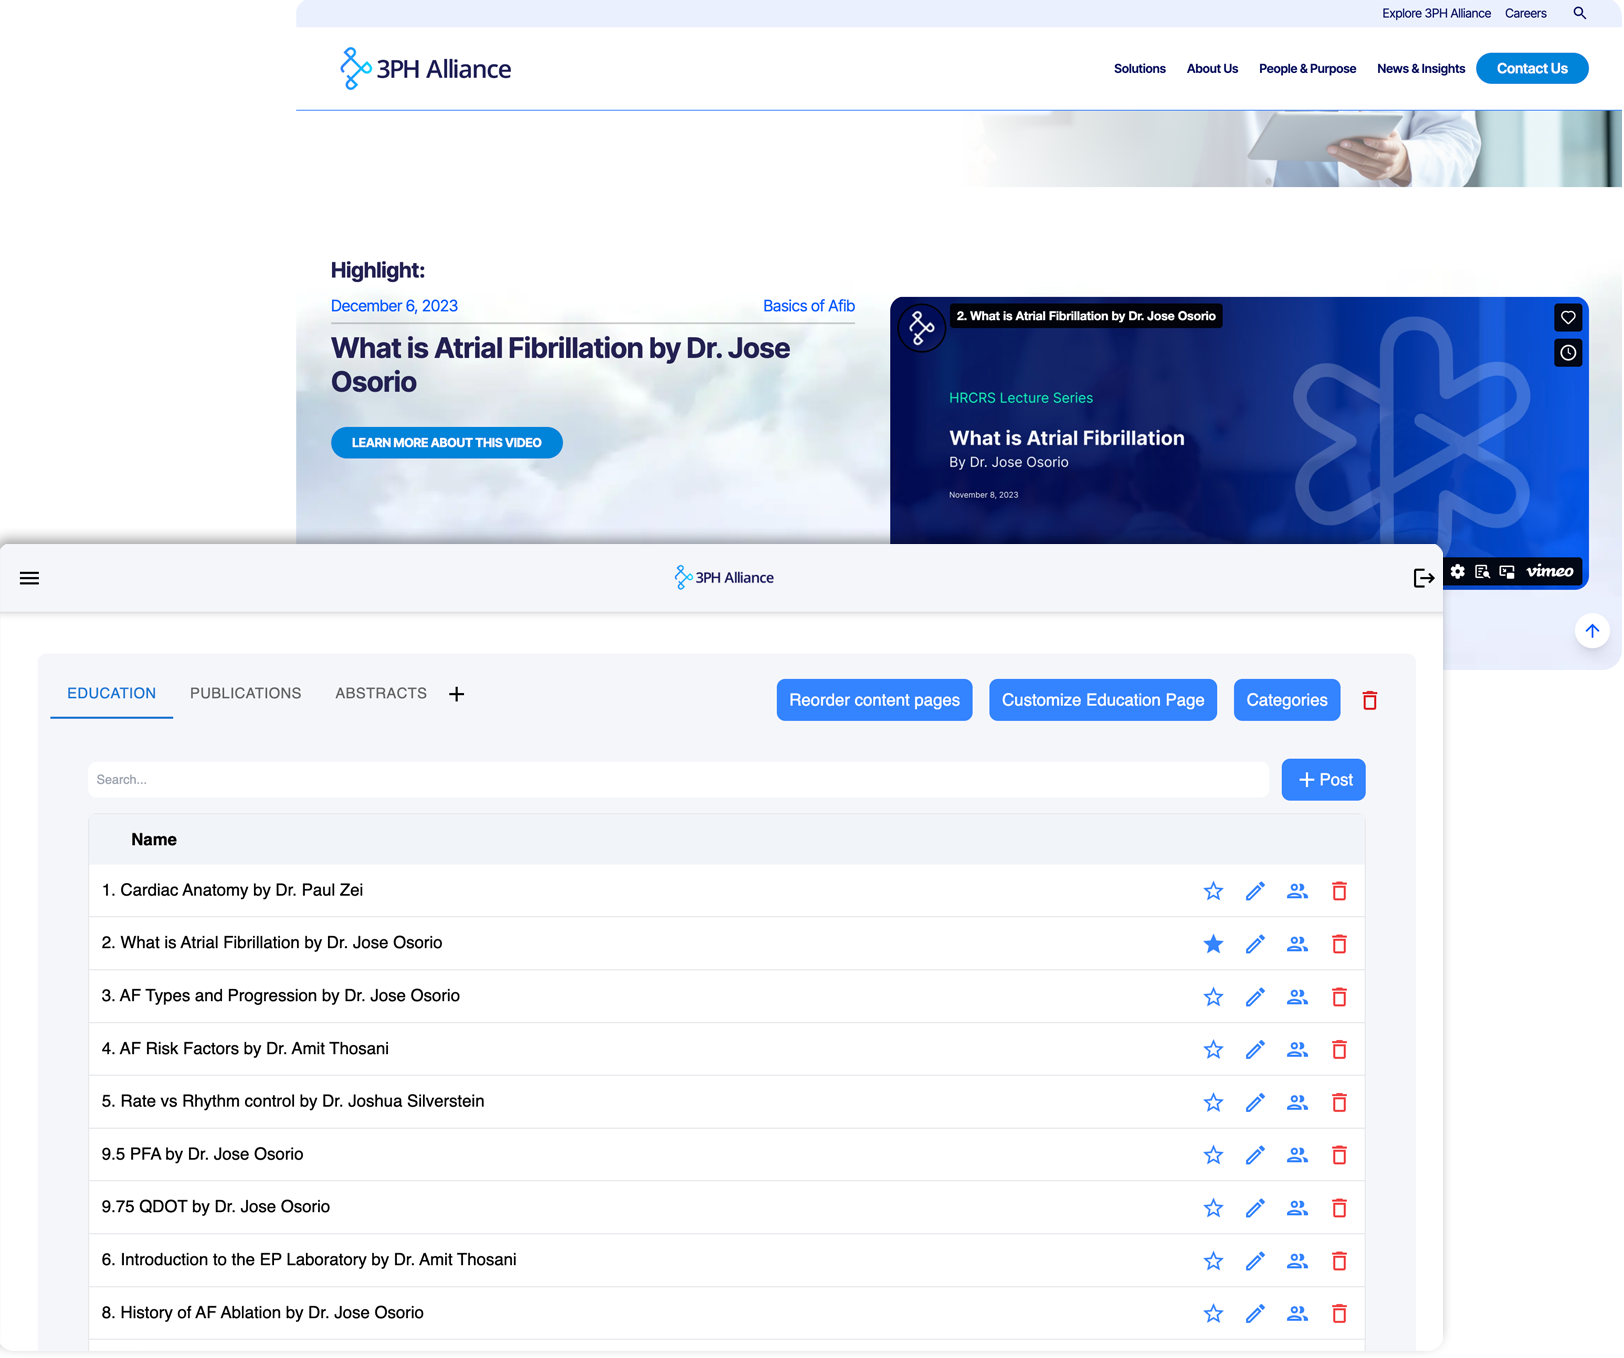
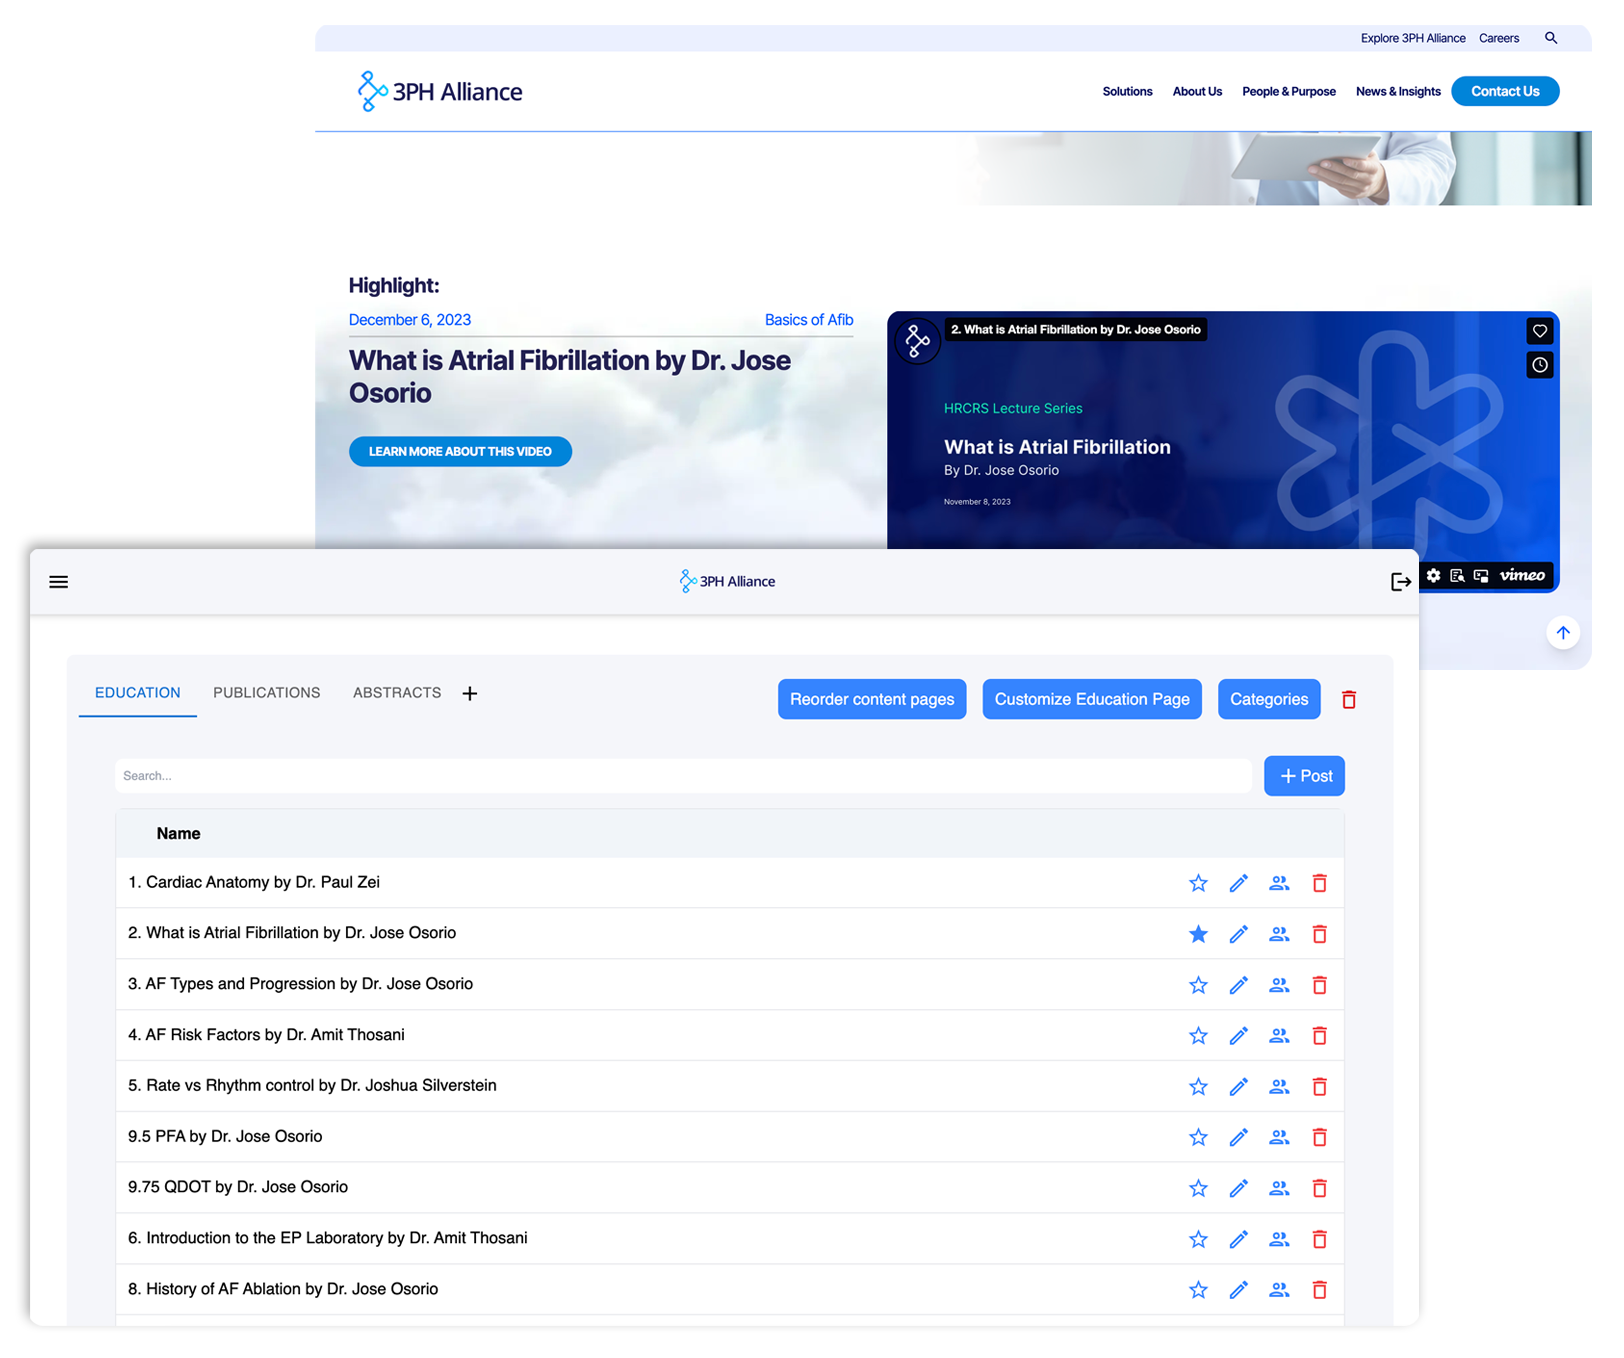
feat: add footer reveal and update 3PH assets

diff --git a/src/components/Footer.module.css b/src/components/Footer.module.css
@@ -1,4 +1,8 @@
 .footer {
+  position: sticky;
+  z-index: 0;
+  bottom: 0;
+  overflow: hidden;
   background: var(--color-black);
   color: var(--color-white);
 }
@@ -7,10 +11,29 @@
 
   max-width: var(--max-width);
   margin: 0 auto;
-  padding: 144px 48px 96px;
+  padding: 56px 48px 40px;
   display: flex;
   flex-direction: column;
 
+}
+
+/* Progressive parallax during the footer reveal */
+@supports (animation-timeline: view()) {
+  .inner {
+    animation: footerRevealParallax linear both;
+    animation-timeline: view();
+    animation-range: entry 0% entry 100%;
+  }
+}
+
+@keyframes footerRevealParallax {
+  from {
+    transform: translateY(72px);
+  }
+
+  to {
+    transform: translateY(0);
+  }
 }
 
 /* Profile + CTA row — gap-120, py-64 */
@@ -18,7 +41,7 @@
   display: flex;
   gap: 120px;
   align-items: flex-start;
-  padding: 0 0 96px;
+  padding: 0 0 64px;
 }
 
 /* Profile: circular photo + name/role to the right */
@@ -109,7 +132,7 @@
   justify-content: center;
   width: 100%;
   gap: 64px;
-  margin-bottom: 48px;
+  margin-bottom: 32px;
 }
 
 /* Link — Label/L: 24px, 500 */
@@ -262,4 +285,11 @@
 
   }
 
+}
+
+@media (prefers-reduced-motion: reduce) {
+  .inner {
+    animation: none;
+    transform: none;
+  }
 }

diff --git a/src/components/Layout.module.css b/src/components/Layout.module.css
@@ -1,4 +1,6 @@
 .pageBackground {
+  position: relative;
+  isolation: isolate;
   background: var(--color-black);
 }
 
